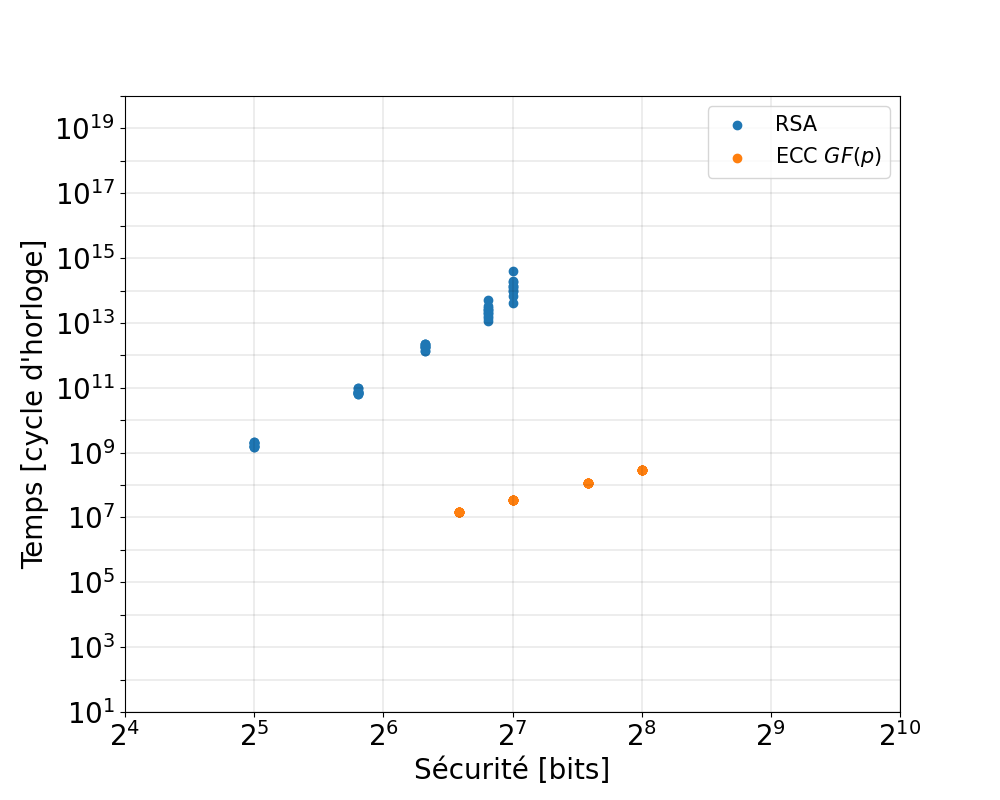
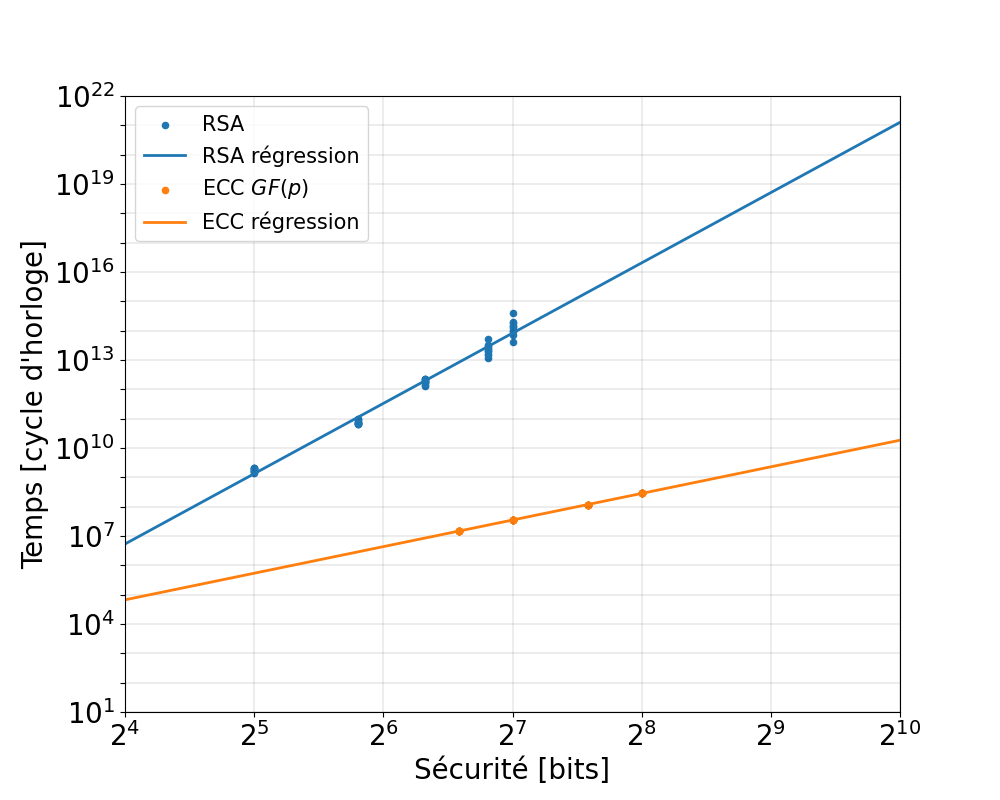
done with first graphic

diff --git a/python_crypto/Essai_figures/result_time_keygen.py b/python_crypto/Essai_figures/result_time_keygen.py
@@ -4,6 +4,7 @@ from math import comb
 from graphs import *
 import numpy as np
 from system_file import *
+import scipy
 
 
 def get_rsa_data(rsa_paths):
@@ -181,20 +182,34 @@ if __name__ == "__main__":
     x_start = 4
     x_end = 10
     y_start = 1
-    y_end = 20
+    y_end = 22
     base = 2
     fontsize = 20
+    linewidth = 2
+    markersize = 20
     fig = plt.figure(figsize=(10, 8), dpi=100)
     ax = fig.add_subplot(111)
 
-    ax.scatter(np.log2(rsa_equivalent), np.log10(rsa_keygen_clock_v), label="RSA")
-    ax.scatter(np.log2(ecc_p_equivalent), np.log10(ecc_p_keygen_clock_v), label=r"ECC $GF(p)$")
+    nb_points = 1000
+    x = np.linspace(x_start, x_end, nb_points, True)
 
-    # ax.plot(np.log2(x), np.log10(data), color_shape, markersize=markersize, label=label)
+    x_rsa = np.log2(rsa_equivalent)
+    y_rsa = np.log10(rsa_keygen_clock_v)
+    slope_rsa, intercept_rsa, r, p, se = scipy.stats.linregress(x_rsa, y_rsa)
+    y_rsa_trend = slope_rsa * x + intercept_rsa
+    ax.scatter(x_rsa, y_rsa, label="RSA", s=markersize, marker='o')
+    ax.plot(x, y_rsa_trend, label="RSA régression", linewidth=linewidth)
+
+
+    x_ecc_p = np.log2(ecc_p_equivalent)
+    y_ecc_p = np.log10(ecc_p_keygen_clock_v)
+    slope_ecc_p, intercept_ecc_p, r, p, se = scipy.stats.linregress(x_ecc_p, y_ecc_p)
+    y_ecc_p_trend = slope_ecc_p * x + intercept_ecc_p
+    ax.scatter(x_ecc_p, y_ecc_p, label=r"ECC $GF(p)$", s=markersize, marker='o')
+    ax.plot(x, y_ecc_p_trend, label="ECC régression", linewidth=linewidth)
+
     # color_shapes_rsa = ['r-', 'ro', 'rs']
-    # labels_ecc_p = [r"ECC $GF(p)$ tendance", "ECC $GF(p)$ data", "ECC $GF(p)$ moyenne"]
     # color_shapes_ecc_p = ['g-', 'go', 'gs']
-    # labels_ecc_2m = [r"ECC $GF(2^m)$ tendance", "ECC $GF(2^m)$ data", "ECC $GF(2^m)$ moyenne"]
     # color_shapes_ecc_2m = ['b-', 'bo', 'bs']
 
     ax.legend(fontsize=fontsize * 0.75)
